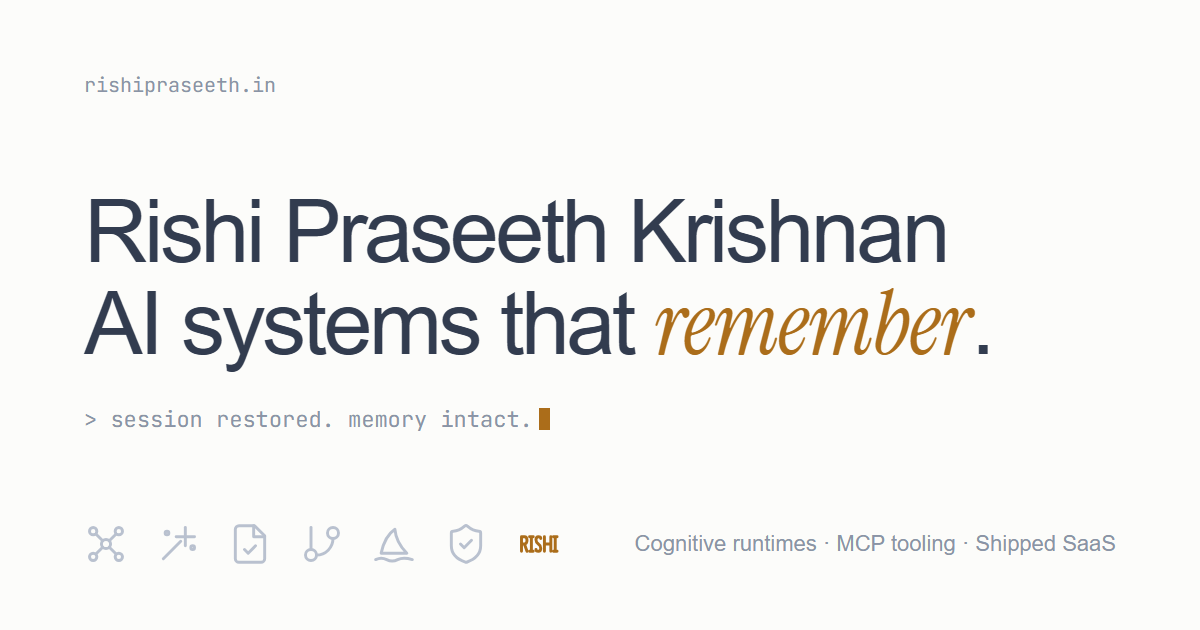
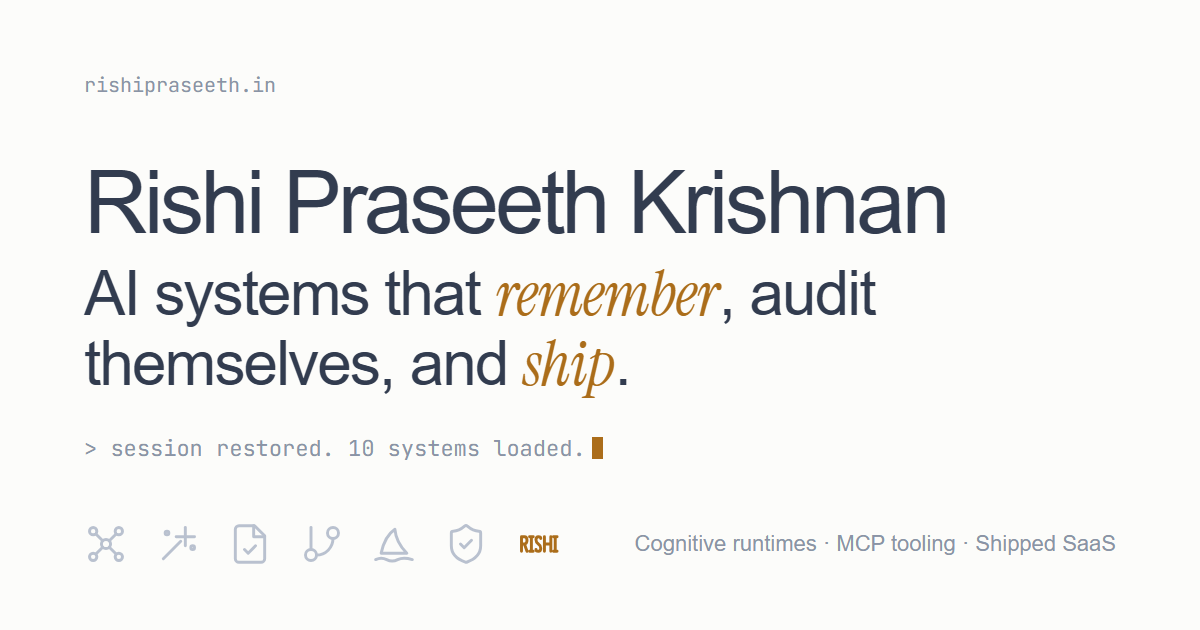
Broaden og card from memory-only pitch to full portfolio breadth

Changed region(s): [[0.0617, 0.2714, 0.8325, 0.7238]]

diff --git a/assets/og-source.html b/assets/og-source.html
@@ -42,11 +42,12 @@
     line-height: 1.04;
   }
   .tag {
-    font-size: 88px;
+    font-size: 62px;
     font-weight: 500;
-    letter-spacing: -0.04em;
-    line-height: 1.04;
+    letter-spacing: -0.03em;
+    line-height: 1.12;
     color: #323c4f;
+    margin-top: 10px;
   }
   .tag em {
     font-family: 'Instrument Serif', serif;
@@ -97,8 +98,8 @@
     <div class="top">rishipraseeth.in</div>
     <div>
       <div class="name">Rishi Praseeth Krishnan</div>
-      <div class="tag">AI systems that <em>remember</em>.</div>
-      <div class="status">&gt; session restored. memory intact.<span class="caret"></span></div>
+      <div class="tag">AI systems that <em>remember</em>, audit themselves, and <em>ship</em>.</div>
+      <div class="status">&gt; session restored. 10 systems loaded.<span class="caret"></span></div>
     </div>
     <div class="bottom">
       <div class="icons">
